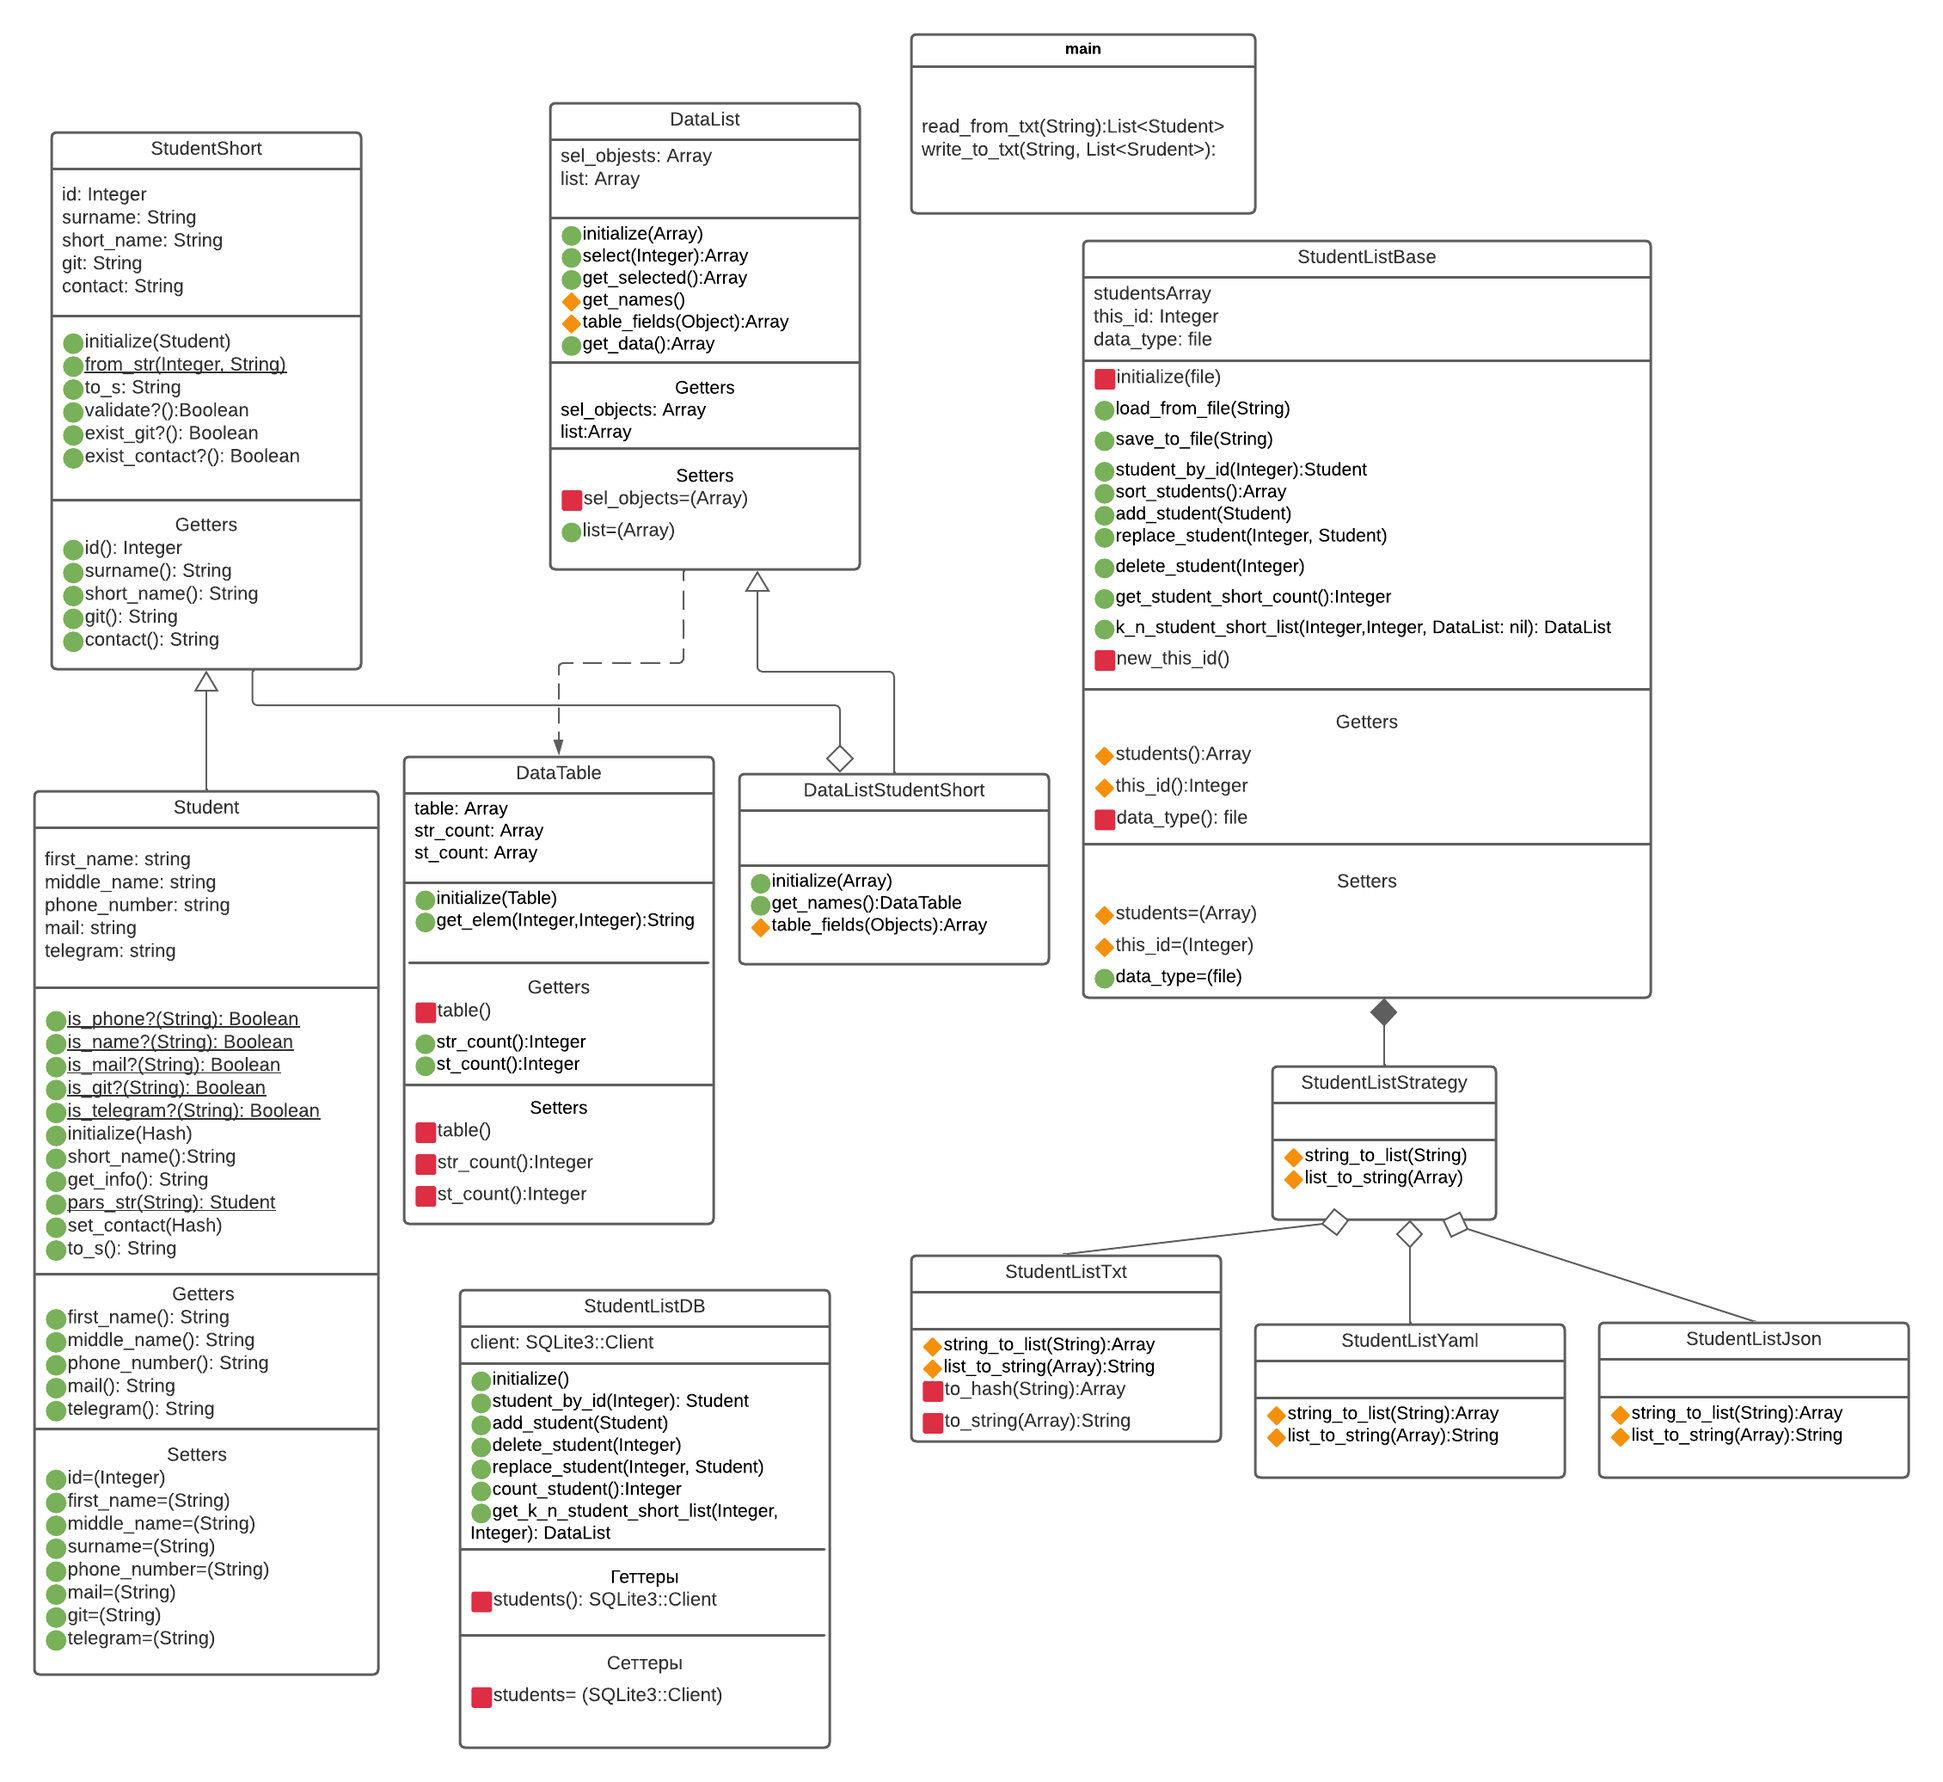
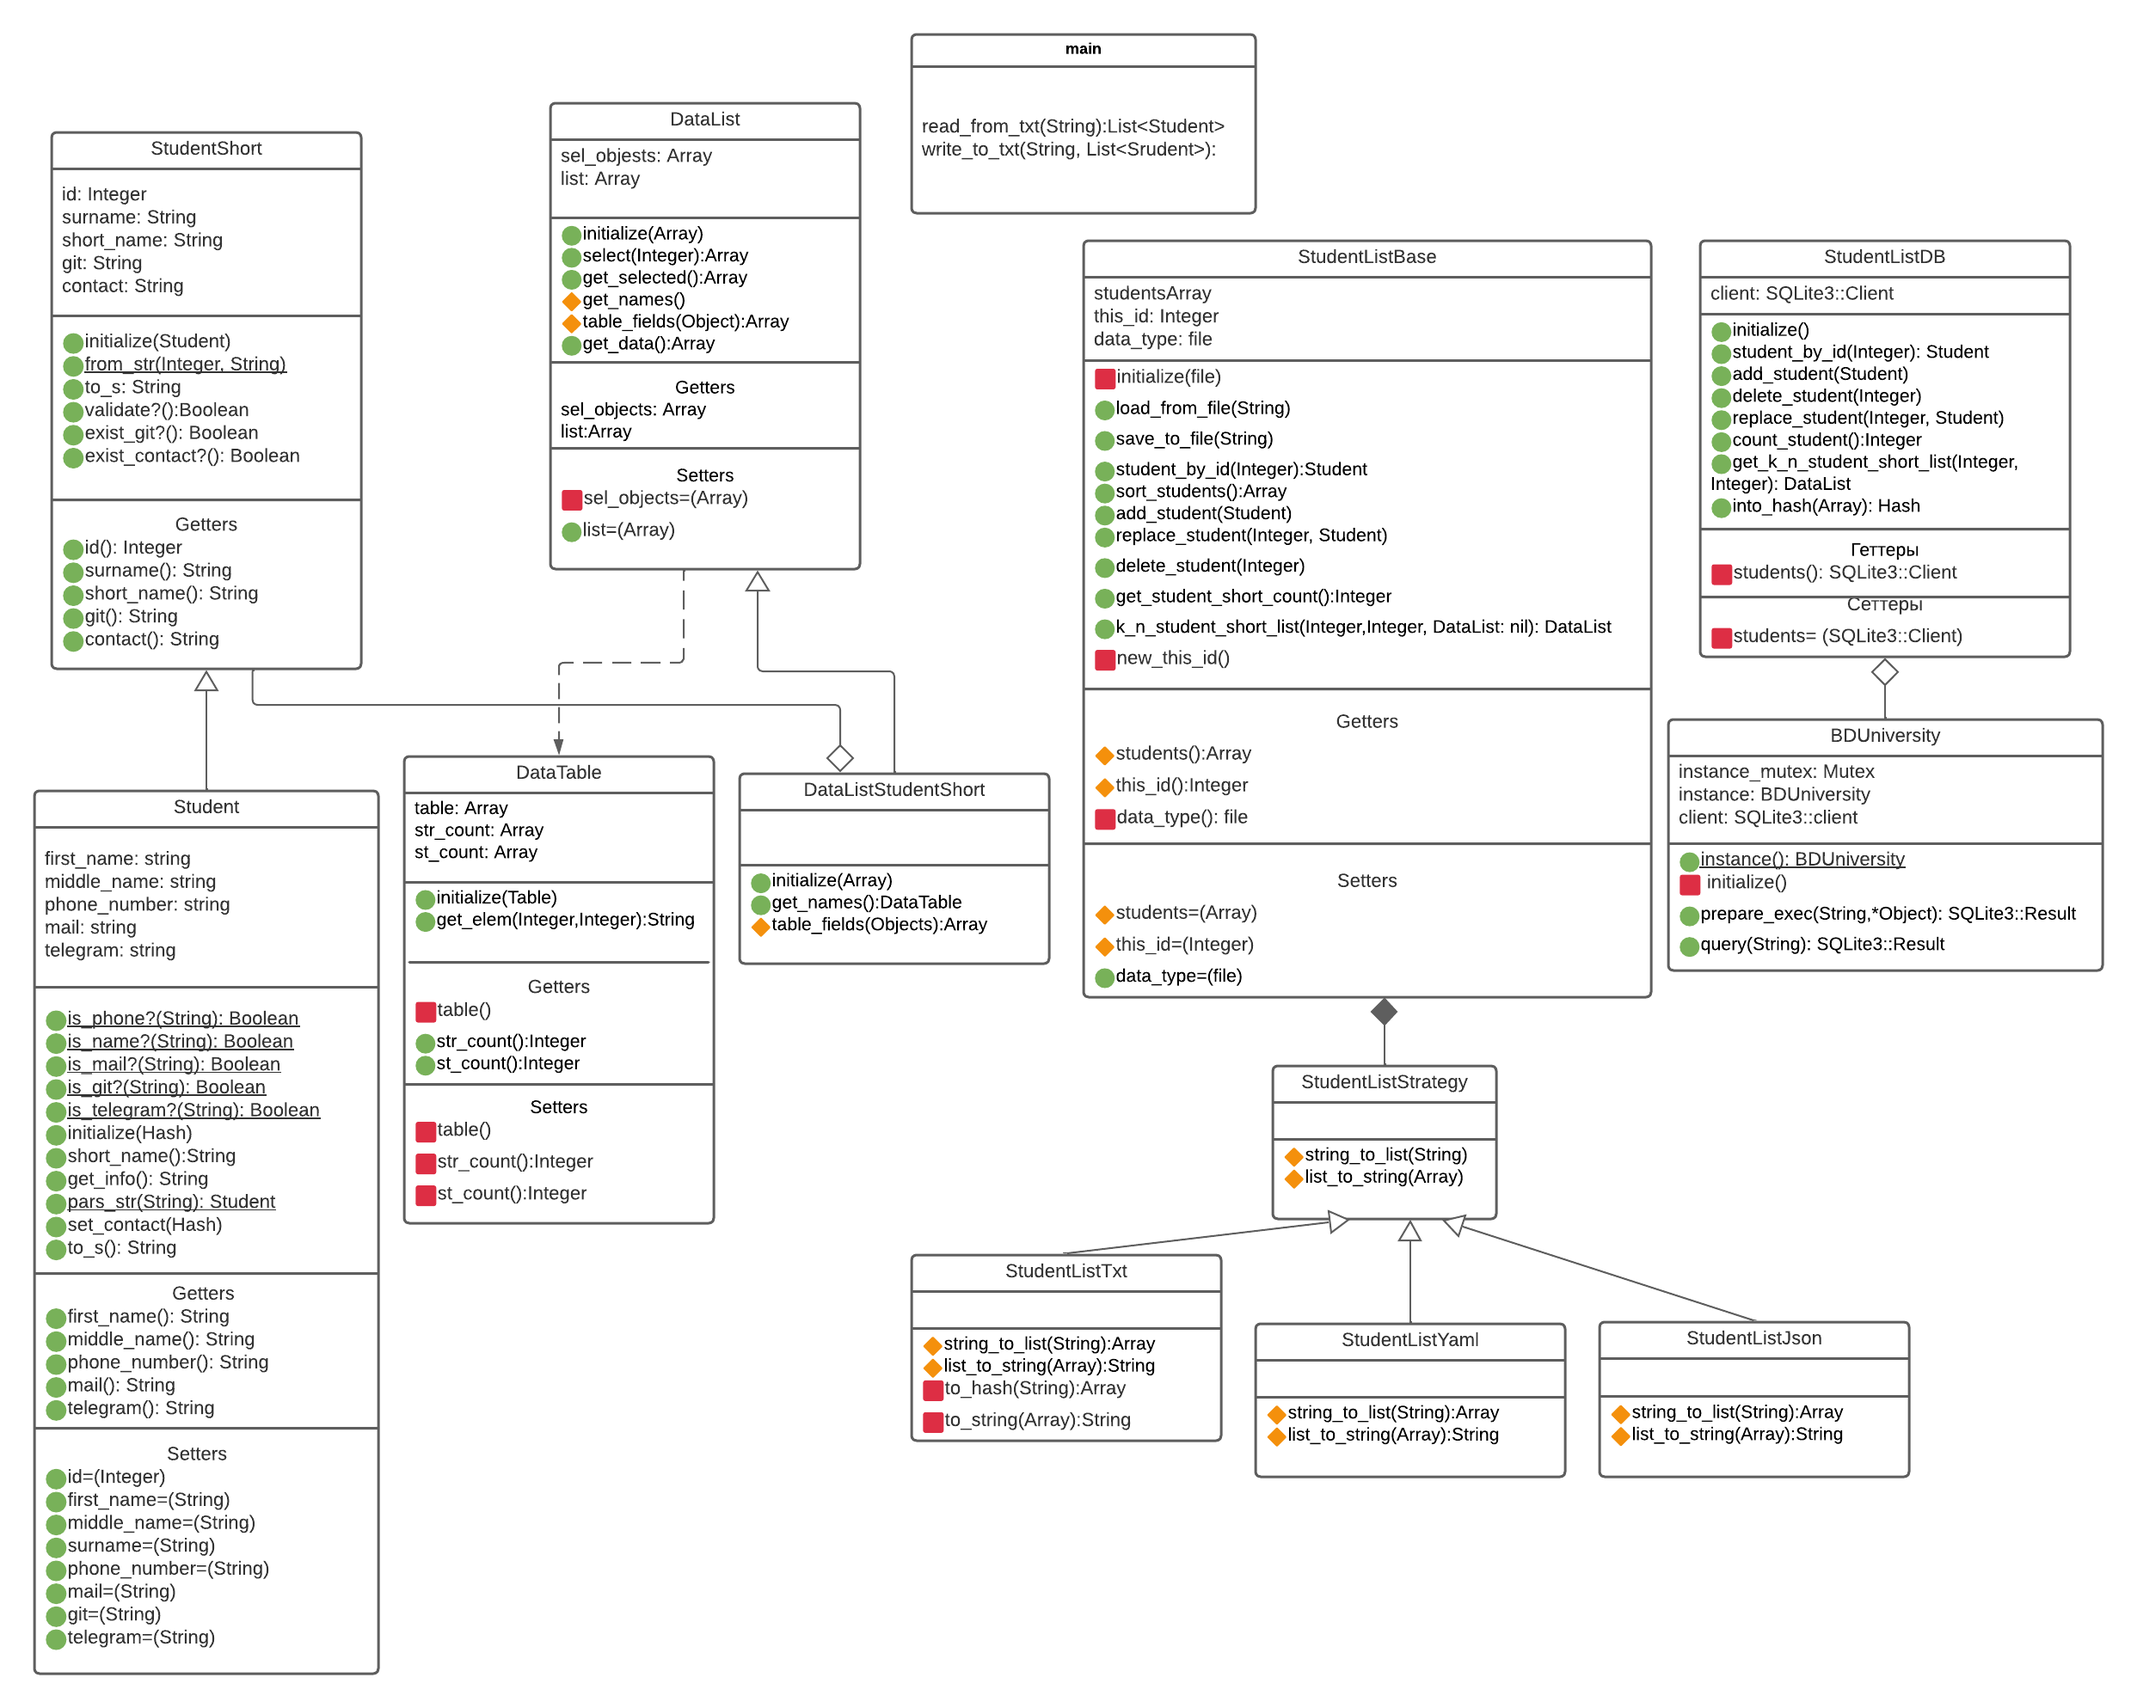
добавлена Диаграмма.png

diff --git a/lab2/database/db_university.rb b/lab2/database/db_university.rb
@@ -3,11 +3,13 @@ class DBUniversity
   private_class_method :new
   @instance_mutex = Mutex.new
 
+  #организует подключение, чтобы не делать много подключений
   def initialize
     @client = SQLite3::Database.open '/Users/Lenovo/untitled/university.sql'
     @client.results_as_hash = true
   end
 
+  #обеспечивает принцип одиночки
   def self.instance
     return @instance if @instance
 
